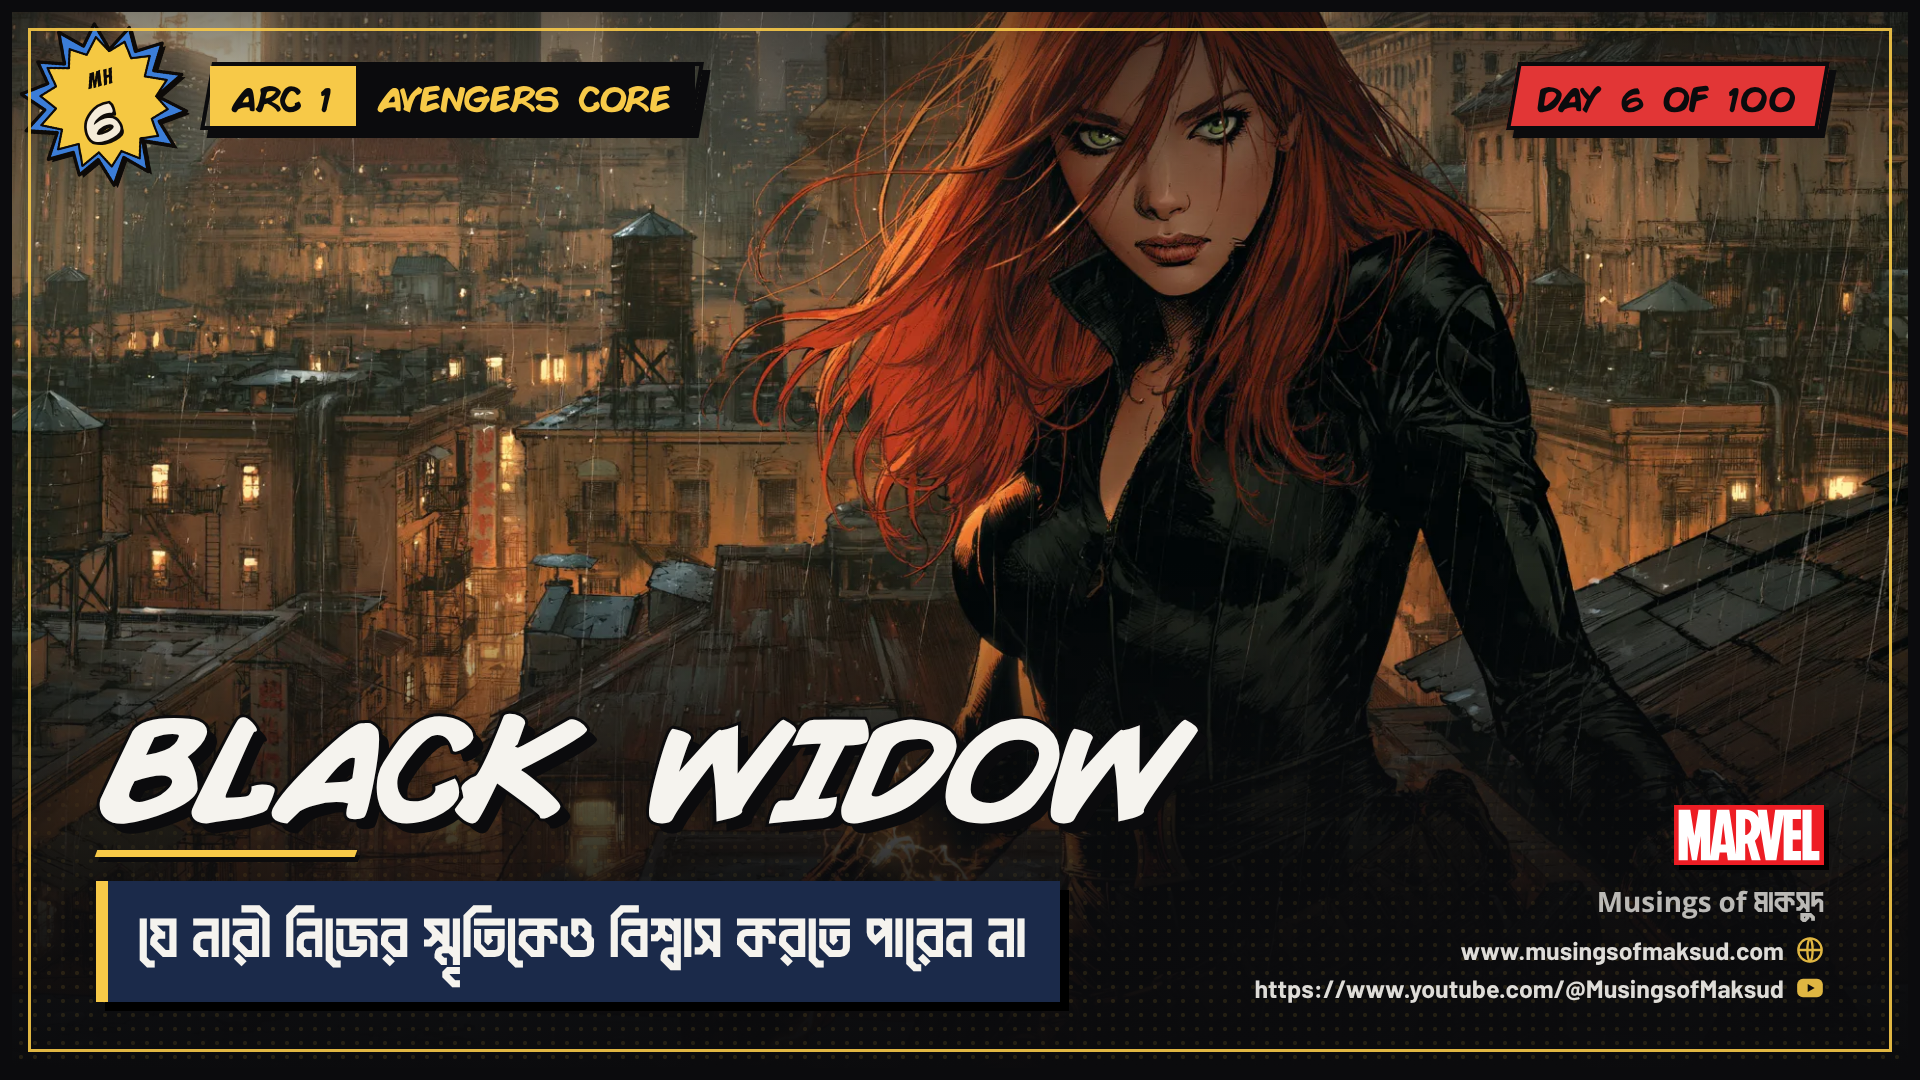
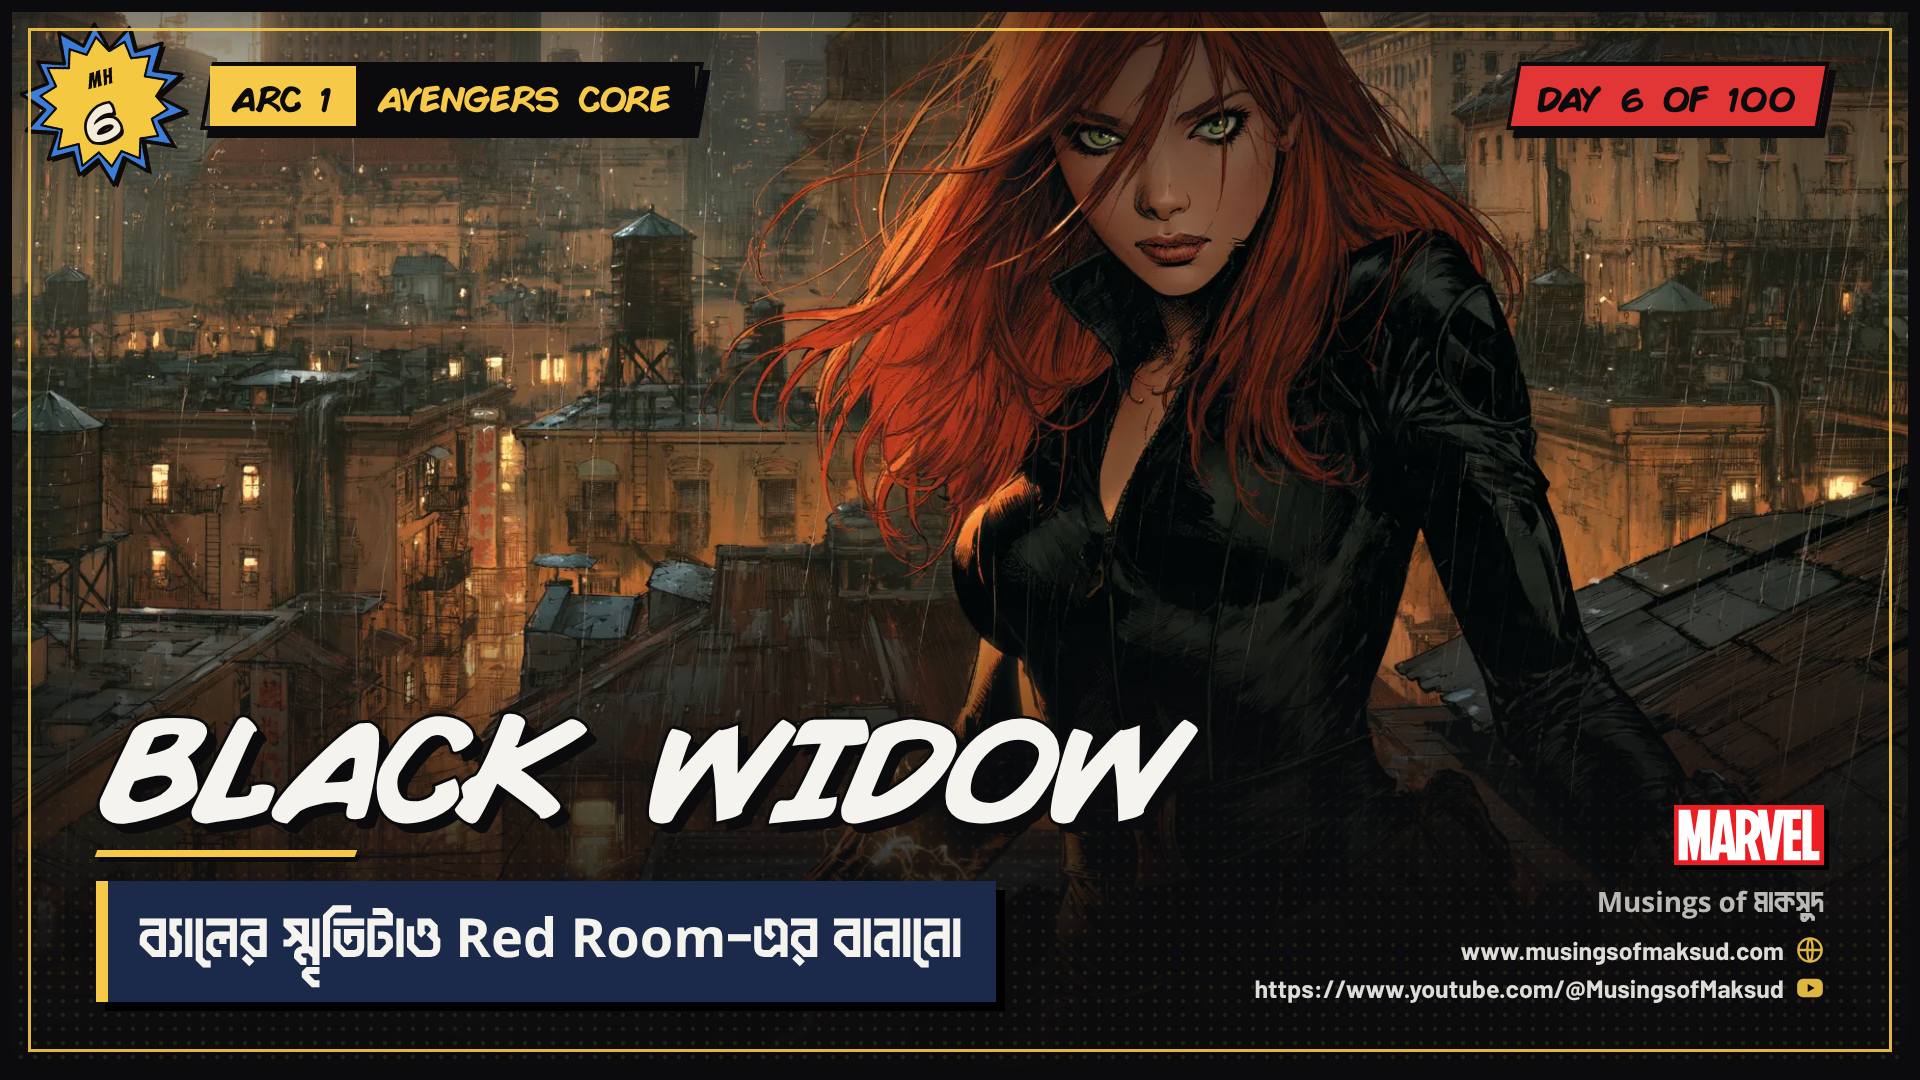
Load the full 102-entry headings list; refresh Days 0 to 10 text
headings.txt now holds the opening, Days 1 to 100 and the goodbye card
with approved arcs. prepare.py reads the pasted two-line format and the
opening/goodbye entries, and gains --sync-text to refresh the text of
existing cards. The template keeps English-plus-Bangla words together
when a long Bangla line wraps. Days 0 to 10 re-rendered with the new
taglines; docs updated.

Claude-Session: https://claude.ai/code/session_01M1ZHpzM7xsABALZbA4Syv2

Changed region(s): [[0.0625, 0.7944, 0.5625, 0.9472]]

diff --git a/marvel-heroes/template/post.html b/marvel-heroes/template/post.html
@@ -166,7 +166,15 @@ window.heroRect = () => {
   const b = r.getBoundingClientRect();
   return {x:Math.max(0,b.x), y:Math.max(0,b.y), width:Math.min(1920-b.x,b.width), height:b.height};
 };
-$('#tag p').textContent = P.tagline;
+// keep English-plus-Bangla words ("Mutant-এর", "Spider-Man-কে") on one line: no break after the hyphen
+(function(){
+  const p = $('#tag p'); p.textContent = '';
+  P.tagline.split(/([A-Za-z0-9#.'&]+(?:-[A-Za-z0-9]+)*-[\u0980-\u09FF]+)/).forEach((t, i) => {
+    if (!t) return;
+    if (i % 2) { const sp = document.createElement('span'); sp.style.whiteSpace = 'nowrap'; sp.textContent = t; p.appendChild(sp); }
+    else p.appendChild(document.createTextNode(t));
+  });
+})();
 $('#web span').textContent = SITE;
 $('#yt span').textContent = YOUTUBE;
 

diff --git a/marvel-heroes/tools/prepare.py b/marvel-heroes/tools/prepare.py
@@ -9,11 +9,14 @@ Inputs (under the marvel-heroes folder, or --root):
   headings.txt  one heading per line, in the format the series already uses:
                   ARC 2 | Street level          (also: "Arc - 2 - Street level", "ARC 2: Street level")
                   DAY 11 — DAREDEVIL / বাংলা লাইন
+                  OPENING — HERO / line   and   GOODBYE — HERO / line   (day 0 and day 101)
+                The pasted two-line form also works: "Day 11 · VISION" then "VISION / line".
                 An ARC line applies to every DAY line below it until the next ARC line.
   inbox/        the art. A file whose name starts with the day number (11.webp, 011.webp,
                 day-11-anything.webp) is matched automatically. Other files are listed as
                 "unmatched" and can be matched with map.txt (one line: filename = day).
   map.txt       optional, "filename = day" lines for files that do not start with a number.
+  --sync-text   also refresh the text of days that already have a config (see below)
   layout.txt    optional, "day = position" lines (bottom-left, bottom-right, bottom, top-left,
                 top-right, middle). Applied on every run, also to days that already exist.
 
@@ -32,31 +35,51 @@ DASHES = "—–"
 
 
 def parse_headings(path):
-    arcs, days, arc = {}, {}, None
-    warns = []
-    for n, raw in enumerate(path.read_text(encoding="utf-8").splitlines(), 1):
-        line = raw.strip()
-        if not line or line.startswith(("```", "#")):
-            continue
-        m = re.match(r"^arc\s*[-—–:/|]?\s*(\d+)\s*[-—–:/|]\s*(.+)$", line, re.I)
-        if m:
-            arc = (int(m.group(1)), m.group(2).strip())
-            continue
-        m = re.match(r"^opening\s*[-—–:]\s*(.+?)\s*/\s*(.+)$", line, re.I)
-        if m:
-            days[0] = dict(hero=m.group(1).strip(), tagline=m.group(2).strip(), arc=arc, opening=True)
-            continue
-        m = re.match(r"^day\s*(\d+)\s*[-—–:]\s*(.+?)\s*/\s*(.+)$", line, re.I)
-        if not m:
-            warns.append(f"headings.txt line {n}: not understood, skipped: {line[:60]}")
-            continue
-        d = int(m.group(1))
-        tag = m.group(3).strip()
+    """Accepts one-line entries (DAY 11 — HERO / line, OPENING — ..., GOODBYE — ...) and the pasted
+    two-line form (a label line such as "Day 11 · VISION" or "Series Goodbye · MARVEL HEROES",
+    followed by the "HERO / line" heading). ARC lines apply to every entry below them."""
+    days, warns, arc, pending = {}, [], None, None
+    SPECIAL = {"opening": (0, "Opening"), "goodbye": (101, "Goodbye")}
+
+    def add(d, hero, tag, label, line_no):
         if any(c in tag for c in DASHES):
             warns.append(f"Day {d}: the Bangla line contains a dash, rewrite it: {tag}")
         if d in days:
             warns.append(f"Day {d} appears twice in headings.txt, the later line wins")
-        days[d] = dict(hero=m.group(2).strip(), tagline=tag, arc=arc)
+        days[d] = dict(hero=hero.strip(), tagline=tag.strip(), arc=arc, label=label)
+
+    for n, raw in enumerate(path.read_text(encoding="utf-8").splitlines(), 1):
+        line = raw.strip()
+        if not line or line.startswith(("```", "#")):
+            continue
+        m = re.match(r"^arc\s*[-\u2014\u2013:/|]?\s*(\d+)\s*[-\u2014\u2013:/|]\s*(.+)$", line, re.I)
+        if m:
+            arc = (int(m.group(1)), m.group(2).strip())
+            continue
+        # label line of the two-line form
+        m = re.match(r"^(?:series\s+(opening|goodbye)|day\s*(\d+))\s*[\u00b7\u2022]\s*.+$", line, re.I)
+        if m and "/" not in line:
+            pending = SPECIAL[m.group(1).lower()] + (None,) if m.group(1) else (int(m.group(2)), None, None)
+            continue
+        # one-line forms
+        m = re.match(r"^(opening|goodbye)\s*[-\u2014\u2013:]\s*(.+?)\s*/\s*(.+)$", line, re.I)
+        if m:
+            d, label = SPECIAL[m.group(1).lower()]
+            add(d, m.group(2), m.group(3), label, n)
+            pending = None
+            continue
+        m = re.match(r"^day\s*(\d+)\s*[-\u2014\u2013:]\s*(.+?)\s*/\s*(.+)$", line, re.I)
+        if m:
+            add(int(m.group(1)), m.group(2), m.group(3), None, n)
+            pending = None
+            continue
+        # heading line of the two-line form
+        m = re.match(r"^(.+?)\s+/\s+(.+)$", line)
+        if m and pending:
+            add(pending[0], m.group(1), m.group(2), pending[1], n)
+            pending = None
+            continue
+        warns.append(f"headings.txt line {n}: not understood, skipped: {line[:60]}")
     return days, warns
 
 
@@ -89,6 +112,9 @@ def main():
     ap.add_argument("--root", default=str(Path(__file__).resolve().parent.parent))
     ap.add_argument("--dry-run", action="store_true")
     ap.add_argument("--force", action="store_true", help="rewrite configs that already exist")
+    ap.add_argument("--sync-text", action="store_true",
+                    help="update hero, Bangla line, arc and badge text of EXISTING configs from headings.txt "
+                         "(position, art placement and everything else are kept)")
     a = ap.parse_args()
     root = Path(a.root)
     posts, images, inbox = root / "posts", root / "images", root / "inbox"
@@ -128,8 +154,8 @@ def main():
         arc = h["arc"] or (1, "Avengers core")
         name = f"day-{d:03d}-{slug(h['hero'])}"
         cfg = {"day": d, "total": 100, "arc": arc[0], "arcName": arc[1]}
-        if h.get("opening"):
-            cfg["dayLabel"] = "Opening"
+        if h.get("label"):
+            cfg["dayLabel"] = h["label"]
         cfg.update({"hero": h["hero"], "tagline": h["tagline"], "image": f"../images/{name}{f.suffix.lower()}",
                     "pos": "bottom-left", "art": art_for(w, hh), "output": f"{name}.webp"})
         made.append(d)
@@ -150,9 +176,30 @@ def main():
                     p.write_text(json.dumps(c, ensure_ascii=False, indent=2) + "\n", encoding="utf-8")
                     changed.append(d)
 
+    synced = []
+    if a.sync_text:
+        for cp in sorted(posts.glob("day-*.json")):
+            d = int(cp.stem.split("-")[1])
+            h = days.get(d)
+            if not h:
+                continue
+            c = json.loads(cp.read_text(encoding="utf-8"))
+            new = dict(c)
+            new["hero"], new["tagline"] = h["hero"], h["tagline"]
+            if h["arc"]:
+                new["arc"], new["arcName"] = h["arc"]
+            if h.get("label"):
+                new["dayLabel"] = h["label"]
+            if new != c:
+                synced.append(d)
+                if not a.dry_run:
+                    cp.write_text(json.dumps(new, ensure_ascii=False, indent=2) + "\n", encoding="utf-8")
+
     have_art = set(matched) | {int(p.stem.split("-")[1]) for p in posts.glob("day-*.json")}
     missing = [d for d in sorted(days) if d not in have_art]
     print(f"headings: {len(days)} days   art matched: {len(matched)}   new configs: {len(made)}   already existed: {len(kept)}")
+    if a.sync_text:
+        print("text updated for days:", ", ".join(map(str, synced)) or "none")
     if changed:
         print("position changed for days:", ", ".join(map(str, changed)))
     if unmatched:

diff --git a/marvel-heroes/README.md b/marvel-heroes/README.md
@@ -3,13 +3,17 @@
 One 1920x1080 (16:9) post card per day. Day 1 is `posts/day-001-spider-man.webp`; the opening post is `posts/day-000-opening.webp`. Cards are saved as lossless WebP (no quality loss).
 Every later day reuses the same template, so only a small JSON file and the art change.
 
-## Doing many days at once (Days 11 to 100)
+## Doing many days at once (Days 11 to 100 and the Goodbye card)
 
 Chat uploads are limited to a few images, so the art goes in through the repo and the cards are
 made in bulk. Files live under `marvel-heroes/`; tools are run from the repo root.
 
-1. `headings.txt`: every heading, `ARC` lines and `DAY n — HERO / Bangla line` lines.
-2. `inbox/`: all the art. Name files with the day number to skip matching (`11.webp`), or leave the
+1. `headings.txt`: every heading (already filled in for the whole series: opening, Days 1 to 100, goodbye).
+   Format: `ARC n — name` lines and `DAY n — HERO / Bangla line` lines; `OPENING — ...` is day 0 and
+   `GOODBYE — ...` is day 101 (badge says Goodbye, stamp MH 101). The pasted two-line form
+   (`Day 11 · VISION` then `VISION / line`) also works. To change a heading's text later, edit
+   `headings.txt` and run `python3 -I marvel-heroes/tools/prepare.py --sync-text`, then re-render.
+2. `inbox/`: all the art, 91 images: Days 11 to 100 and the Goodbye card (day 101). Name files with the day number to skip matching (`11.webp`), or leave the
    original names and match by eye (then list them in `map.txt`, one `filename = day` per line).
 3. `python3 -I marvel-heroes/tools/prepare.py` reads both, moves the art to `images/`, and writes
    `posts/day-NNN.json` for every new day. It reports unmatched files, headings without art,

diff --git a/marvel-heroes/TRANSFER_PROMPT.md b/marvel-heroes/TRANSFER_PROMPT.md
@@ -34,7 +34,7 @@ I will send, for each day: the 16:9 art (Midjourney, `--ar 16:9`), the hero name
 5. Open the result and check it (see section 4). Fix and re-render until it passes. Lossless WebP of detailed art takes about 40 seconds, so run the render in the background if your shell times out. Use a `.png` output name for quick position tests.
 6. Show me the finished image. Commit and push only when I ask.
 
-For many days at once (the rest of the series), use the bulk tools described in the README section "Doing many days at once": `headings.txt`, `inbox/`, `tools/prepare.py`, `tools/sheet.py`, `tools/render_all.py`.
+For many days at once (the rest of the series), use the bulk tools described in the README section "Doing many days at once": `headings.txt` (already filled in for the whole series, 102 entries), `inbox/` (91 images: Days 11 to 100 plus the Goodbye card, day 101), `tools/prepare.py` (`--sync-text` refreshes text of existing cards), `tools/sheet.py`, `tools/render_all.py`.
 
 Never edit `post.html` or `render.js` for a single day. If you think the template itself needs a change, tell me first, because every day must look the same.
 

diff --git a/marvel-heroes/inbox/README.md b/marvel-heroes/inbox/README.md
@@ -1,4 +1,4 @@
-# inbox: drop the art for Days 11 to 100 here
+# inbox: drop the art for Days 11 to 100 and the Goodbye card here (91 images)
 
 1. Put every image (any mix of .webp .png .jpg, 16:9, Midjourney `--ar 16:9`) in this folder.
 2. No renaming needed. If a file name starts with the day number (`11.webp`, `011.webp`,
